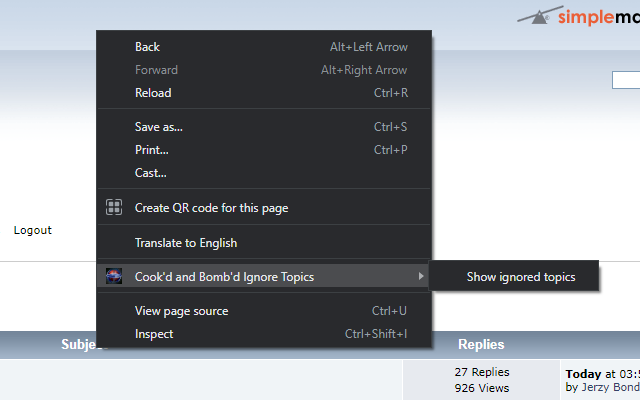
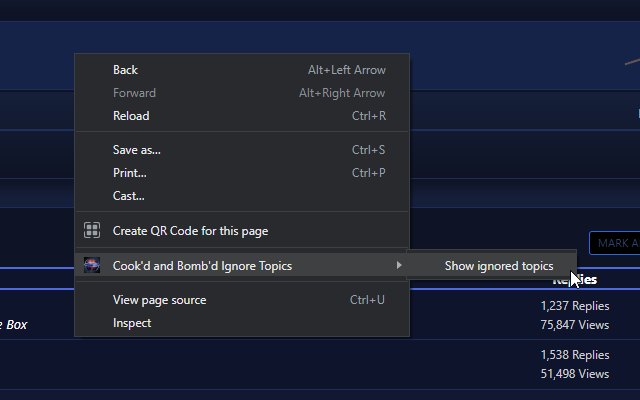
Update for new theme
- URLs are now the same when logged in or out
- Updated selectors for the new theme
- Use the new spritesheet-based icons for the ignore button
- Removed "Make topic links go to first unread post" as it seems to be the
  default behaviour now
- Updated screenshots

diff --git a/cookdandbombdignoretopics.user.js b/cookdandbombdignoretopics.user.js
@@ -2,8 +2,8 @@
 // @name        Cook'd and Bomb'd Ignore Topics
 // @description Ignore topics and forums, and other topic list tweaks
 // @namespace   https://github.com/insin/greasemonkey/
-// @version     6
-// @match       https://www.cookdandbombd.co.uk/forums/index.php/board*
+// @version     7
+// @match       https://www.cookdandbombd.co.uk/forums/index.php?board*
 // @match       https://www.cookdandbombd.co.uk/forums/index.php?action=unread*
 // @grant       GM.registerMenuCommand
 // ==/UserScript==
@@ -11,11 +11,8 @@
 const IGNORED_TOPICS_STORAGE = 'cab_ignoredTopics'
 const IGNORED_FORUMS_STORAGE = 'cab_ignoredForums'
 
-// Logged out: index.php/topic,12345
-// Logged in: index.php?topic=12345
-const TOPIC_ID_RE = /index.php[?/]topic[,=](\d+)/
-// Only in Recent Unread Topics - must be logged in
-const FORUM_ID_RE = /index.php\/board,(\d+)/
+const TOPIC_ID_RE = /index\.php\?topic=(\d+)/
+const FORUM_ID_RE = /index\.php\?board=(\d+)/
 
 let topics = []
 
@@ -27,7 +24,6 @@ let config = {
   // Set this to false if you're done hiding forums in Recent Unread Topics
   showIgnoreForumControl: true,
   showIgnoredTopics: false,
-  topicLinksNewPost: true,
 }
 
 function loadIgnoreConfig() {
@@ -79,16 +75,16 @@ function ForumPage() {
     .cab_ignoreControl {
       visibility: hidden;
     }
-    .cab_ignored {
+    #topic_container .windowbg.cab_ignored {
       display: none;
     }
-    .cab_ignored.cab_show {
-      display: table-row;
+    #topic_container .windowbg.cab_ignored.cab_show {
+      display: flex;
     }
-    .cab_ignored.cab_show td {
-      background-color: #fdd !important;
+    #topic_container .windowbg.cab_ignored.cab_show {
+      background-color: #311212 !important;
     }
-    tr:hover .cab_ignoreControl {
+    #topic_container > div:hover .cab_ignoreControl {
       visibility: visible;
     }
     .cab_ignoredForum .cab_ignoreTopic {
@@ -100,14 +96,14 @@ function ForumPage() {
     .cab_ignoredTopic.cab_ignoredForum .cab_ignoreForum {
       display: inline;
     }
-    ${isRecentUnreadTopicsPage && config.hideRecentUnreadTopicsPageNumbers ? 'td.subject small { display: none; }' : ''}
+    ${isRecentUnreadTopicsPage && config.hideRecentUnreadTopicsPageNumbers ? '.topic_pages { display: none; }' : ''}
   `)
 
   function Topic($topicRow) {
-    let $topicLink = $topicRow.querySelector('td.subject a')
+    let $topicLink = $topicRow.querySelector('.info :is(.recent_title, .message_index_title) .preview a')
     // Only in Recent Unread Topics
-    let $forumLink = $topicRow.querySelector('td.subject p > em > a')
-    let $lastPostLink = $topicRow.querySelector('td.lastpost a')
+    let $forumLink = $topicRow.querySelector('.floatleft em a')
+    let $lastPostLink = $topicRow.querySelector('.lastpost a')
 
     let topicIdMatch = TOPIC_ID_RE.exec($lastPostLink.href)
     if (!topicIdMatch) {
@@ -135,8 +131,8 @@ function ForumPage() {
     }
 
     $lastPostLink.insertAdjacentHTML('afterend', `
-      <a href="#" class="cab_ignoreControl cab_ignoreTopic">
-        <img src="/forums/Themes/default/images/icons/delete.gif" alt="Ignore topic" title="Ignore topic" width="14" height="14">
+      <a href="#" class="cab_ignoreControl cab_ignoreTopic" title="Ignore topic">
+        <span class="main_icons ignore"></span>
       </a>
     `)
 
@@ -147,21 +143,14 @@ function ForumPage() {
 
     if (config.showIgnoreForumControl && forumId) {
       $forumLink.parentElement.insertAdjacentHTML('afterend', `
-        <a href="#" class="cab_ignoreControl cab_ignoreForum">
-          <img src="/forums/Themes/default/images/icons/delete.gif" alt="Ignore forum" title="Ignore forum" width="14" height="14">
+        <a href="#" class="cab_ignoreControl cab_ignoreForum" title="Ignore forum">
+          <span class="main_icons ignore"></span>
         </a>
       `)
       $topicRow.querySelector('a.cab_ignoreForum').addEventListener('click', (e) => {
         e.preventDefault()
         toggleIgnoreForum(forumId)
       })
-    }
-
-    if (config.topicLinksNewPost) {
-      let $newPostLink = $topicRow.querySelector('a[id^=newicon]')
-      if ($newPostLink) {
-        $topicLink.href = $newPostLink.href
-      }
     }
 
     return api
@@ -179,7 +168,7 @@ function ForumPage() {
     topic.updateClassNames()
   }
 
-  Array.from(document.querySelectorAll('#main_content_section table.table_grid tbody tr'), processTopicRow)
+  Array.from(document.querySelectorAll('#topic_container > div'), processTopicRow)
 }
 
 // Already-processed pages seem to be getting cached on back navigation... sometimes

diff --git a/options.html b/options.html
@@ -2,119 +2,28 @@
 <html>
 <head>
   <meta charset="utf-8">
-  <style>
-    body, html {
-      padding: 0;
-      margin: 0;
-      height: 100%;
-    }
-
-    form {
-      font-size: 1.15em;
-    }
-
-    section:not(:first-child) {
-      border-top: 1px solid #b6b6b6;
-    }
-
-    section.checkbox > label {
-      display: flex;
-      justify-content: space-between;
-      padding: .825em;
-    }
-
-    section.checkbox > label {
-      cursor: pointer;
-    }
-
-    .switch {
-      position: relative;
-      width: 38px;
-      user-select: none;
-    }
-
-    .switch > input {
-      display: none;
-    }
-
-    .switch > label {
-      display: block; overflow: hidden; cursor: pointer;
-      height: 16px; padding: 0; line-height: 16px;
-      border: 0px solid #FFFFFF; border-radius: 20px;
-      background-color: #9AA0A6;
-    }
-
-    .switch > label:before {
-      content: "";
-      display: block; width: 20px; height: 20px; margin: -2px;
-      background: #DADCE0;
-      position: absolute;
-      top: 0;
-      right: 20px;
-      border-radius: 20px;
-    }
-
-    .switch > input:checked + label {
-      background-color: #5A6F93;
-    }
-
-    .switch > input:checked + label {
-      margin-left: 0;
-    }
-
-    .switch > input:checked + label:before {
-      right: 0px;
-      background-color: #8AB4F8;
-    }
-
-    @media (prefers-color-scheme: dark) {
-      body {
-        background-color: #202023;
-        color: #e8eaed;
-      }
-
-      section:not(:first-child) {
-        border-top: 1px solid #4c4c4e;
-      }
-    }
-  </style>
+  <meta name="viewport" content="width=device-width, initial-scale=1">
+  <title>Cook'd and Bomb'd Ignore Topics Options</title>
+  <link rel="stylesheet" href="options.css">
 </head>
 <body>
   <form>
     <section class="checkbox">
       <label>
-        <span>Show ignored topics</span>
-        <div class="switch">
-          <input type="checkbox" name="showIgnoredTopics" id="showIgnoredTopics">
-          <label for="showIgnoredTopics"></label>
-        </div>
+        Show ignored topics
+        <input type="checkbox" name="showIgnoredTopics">
       </label>
     </section>
     <section class="checkbox">
       <label>
-        <span>Show "Ignore forum" control in Recent Unread Topics</span>
-        <div class="switch">
-          <input type="checkbox" name="showIgnoreForumControl" id="showIgnoreForumControl">
-          <label for="showIgnoreForumControl"></label>
-        </div>
+        Show "Ignore forum" control in Recent Unread Topics
+        <input type="checkbox" name="showIgnoreForumControl">
       </label>
     </section>
     <section class="checkbox">
       <label>
         <span>Hide topic page numbers in Recent Unread Topics</span>
-        <div class="switch">
-          <input type="checkbox" name="hideRecentUnreadTopicsPageNumbers" id="hideRecentUnreadTopicsPageNumbers">
-          <label for="hideRecentUnreadTopicsPageNumbers"></label>
-        </div>
-      </label>
-    </section>
-    <section class="checkbox">
-      <label>
-        <span>Make topic links go to first unread post, when applicable</span>
-        <div class="switch">
-          <input type="checkbox" name="topicLinksNewPost" id="topicLinksNewPost">
-          <label for="topicLinksNewPost"></label>
-        </div>
+        <input type="checkbox" name="hideRecentUnreadTopicsPageNumbers">
       </label>
     </section>
   </form>

diff --git a/options.css b/options.css
@@ -1,0 +1,59 @@
+body, html {
+  padding: 0;
+  margin: 0;
+  font-family: Roboto, "Segoe UI", Tahoma, sans-serif;
+  font-size: 13px;
+}
+
+label {
+  display: flex;
+  justify-content: space-between;
+  padding: 4px 12px;
+  margin: 8px 0;
+  cursor: pointer;
+}
+
+input[type=checkbox] {
+  cursor: pointer;
+  margin-left: 12px;
+}
+
+section:not(:first-of-type) {
+  border-top: 1px solid #f0f0f0;
+}
+
+/* Firefox overrides */
+@-moz-document url-prefix() {
+  html {
+    height: 100%;
+  }
+  body {
+    font-family: inherit;
+    font-size: 15px;
+    height: 100%;
+  }
+  section:not(:first-of-type) {
+    border-color: #d7d7db;
+  }
+}
+
+/* Dark mode overrides */
+@media (prefers-color-scheme: dark) {
+  body {
+    background-color: #292a2d;
+    color: #e8eaed;
+  }
+  section:not(:first-of-type) {
+    border-color: #3f4042;
+  }
+
+  /* Firefox dark mode overrides */
+  @-moz-document url-prefix() {
+    body {
+      background-color: #23222b;
+    }
+    section:not(:first-of-type) {
+      border-color: #4e4d54;
+    }
+  }
+}

diff --git a/background.js b/background.js
@@ -11,7 +11,7 @@ chrome.storage.local.get((config) => {
       chrome.storage.local.set({showIgnoredTopics: !showIgnoredTopics})
     },
     documentUrlPatterns: [
-      'https://www.cookdandbombd.co.uk/forums/index.php/board*',
+      'https://www.cookdandbombd.co.uk/forums/index.php?board*',
       'https://www.cookdandbombd.co.uk/forums/index.php?action=unread*',
     ],
   })

diff --git a/options.js b/options.js
@@ -4,7 +4,6 @@ let config = {
   hideRecentUnreadTopicsPageNumbers: true,
   showIgnoreForumControl: true,
   showIgnoredTopics: false,
-  topicLinksNewPost: true,
 }
 
 chrome.storage.local.get((storedConfig) => {

diff --git a/README.md b/README.md
@@ -2,7 +2,7 @@
 
 ![Extension Logo](icons/icon128.png)
 
-Ignore topics and forums, and other topic list tweaks.
+Ignore topics and forums, and other topic list tweaks for cookdandbombd.co.uk
 
 * [Install Firefox Add-on](https://addons.mozilla.org/en-US/firefox/addon/cookd-and-bombd-ignore-topics/)
 * [Install Chrome Extension](https://chrome.google.com/webstore/detail/bigpbodobkhbhhmjchjndlfgpigchpjh/)
@@ -10,9 +10,9 @@ Ignore topics and forums, and other topic list tweaks.
 
 ## Ignoring
 
-Hover over a topic and a delete icon will appear at the end of the topic's row; clicking it will hide the topic, and it will be hidden on subsequent visits to the forum it's in, and on the Recent Unread Topics page.
+Hover over a topic and an ignore icon will appear at the end of the topic's row; clicking it will hide the topic, and it will be hidden on subsequent visits to the forum it's in, and on the Recent Unread Topics page.
 
-On the Recent Unread Topics page, a delete icon will also appear next to the forum a topic is in; clicking it will hide all topics in that forum when browsing Recent Unread Topics.
+On the Recent Unread Topics page, an ignore icon will also appear next to the forum a topic is in; clicking it will hide all topics in that forum when browsing Recent Unread Topics.
 
 ![Screenshot of the delete icon appearing when hovering over a topic in Recent Unread Topics](screenshots/hover_topic.png)
 
@@ -24,16 +24,15 @@ If you've accidentally ignored the wrong thing, or if you realise you want to re
 |:-------:|:------:|
 | ![Screenshot of the 'Show ignored topics' menu item in Firefox](screenshots/firefox_context_menu.png) | ![Screenshot of the 'Show ignored topics' menu item in Chrome](screenshots/chrome_context_menu.png) |
 
-Ignored topics will be displayed with a fetching salmon highlight and clicking the appropriate delete icon on them (you may have ignored a topic individually, by forum or both) will unignore them. You can then re-hide ignored topics using the same menu item.
+Ignored topics will be displayed with a fetching reddish highlight and clicking the appropriate ignore icon on them (you may have ignored a topic individually, by forum or both) will unignore them. You can then re-hide ignored topics using the same menu item.
 
 ![Screenshot of ignored topics being shown in Recent Unread Topics](screenshots/showing_ignored_topics.png)
 
 ## Other Tweaks
 
-By default, this extension also hides topic page number links in the Recent Unread Topics view and makes topic links go to the first unread post (when available).
+By default, this extension also hides topic page number links in the Recent Unread Topics view.
 
-These can be configured in its options:
-
+This can be configured in its options:
 
 | Firefox | Chrome |
 |:-------:|:------:|
